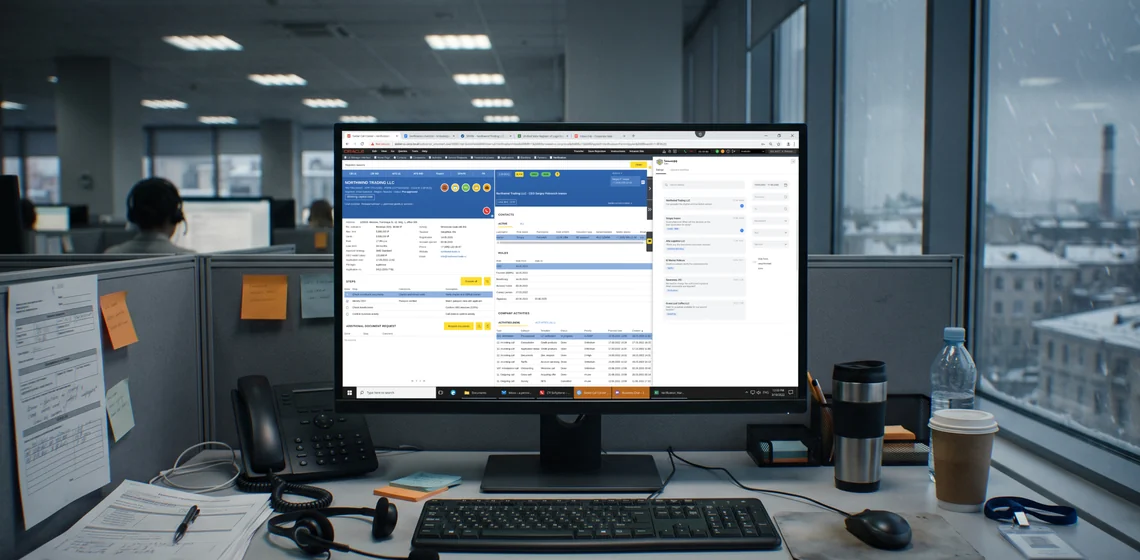
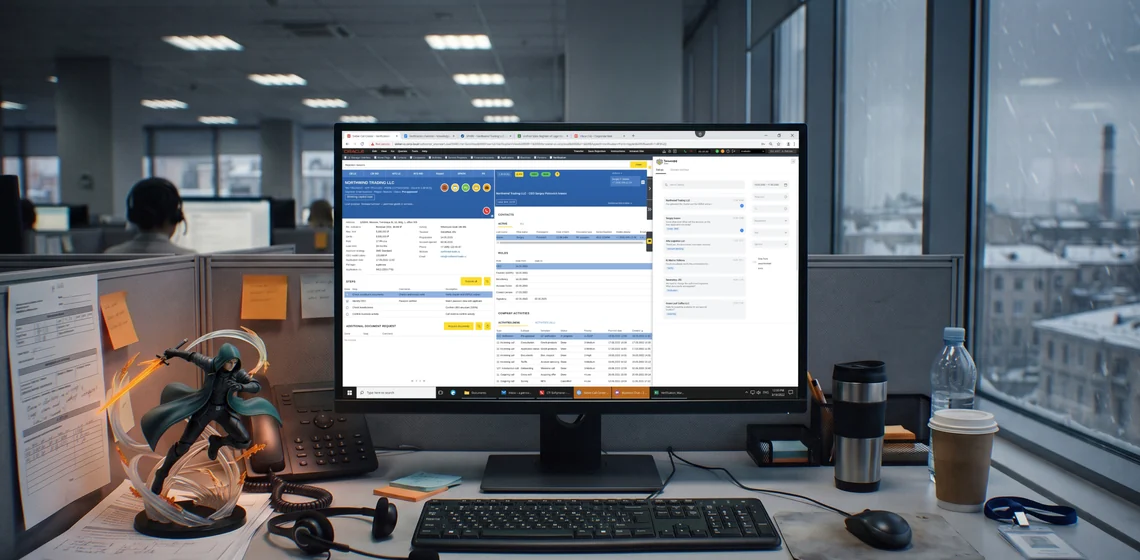
T-bank: updated AI scene from the legasy-demo component
Claude-Session: https://claude.ai/code/session_01SyK1mkk32etF4Hxsy5th1o

Changed region(s): [[0.0307, 0.4554, 0.3377, 1.0], [0.7982, 0.7893, 0.8289, 0.8196]]

diff --git a/t-bank/index.html b/t-bank/index.html
@@ -87,7 +87,7 @@
           <span class="image-loader image-loader--spinner toggle-media__frame">
             <img class="toggle-media__image toggle-media__image--on" src="../assets/img/t-bank/legacy-ai-scene-1140.webp" srcset="../assets/img/t-bank/legacy-ai-scene-1140.webp 1140w, ../assets/img/t-bank/legacy-ai-scene-2280.webp 2280w"
                  sizes="(max-width: 767.98px) calc(100vw - 48px), min(1140px, calc(100vw - 280px))"
-                 width="1140" height="560" alt="Before, as an AI-generated scene: the legacy Siebel verification screen, in English with test data, on a monitor in a call-centre office on a snowy day, with a desk phone, a headset, a keyboard, coffee cups and sticky notes, and a colleague in a headset in the background." loading="lazy" decoding="async">
+                 width="1140" height="560" alt="Before, as an AI-generated scene: the legacy Siebel verification screen, in English with test data, on a monitor in a call-centre office on a snowy day, with a desk phone, a headset, a keyboard, coffee cups, sticky notes and a collectible figure of a hooded swordsman on the desk, and a colleague in a headset in the background." loading="lazy" decoding="async">
             <img class="toggle-media__image toggle-media__image--off" src="../assets/img/t-bank/legacy-ui-1140.webp" srcset="../assets/img/t-bank/legacy-ui-1140.webp 1140w, ../assets/img/t-bank/legacy-ui-1710.webp 1710w"
                  sizes="(max-width: 767.98px) calc(100vw - 48px), min(1140px, calc(100vw - 280px))"
                  width="1140" height="560" alt="Before: the original legacy screen as shared on a video call — Oracle Siebel verification in Chrome with the Tinkoff dialogs panel beside it, customer data blurred and video tiles of the call on the right. The interface is in Russian." loading="lazy" decoding="async" aria-hidden="true">
